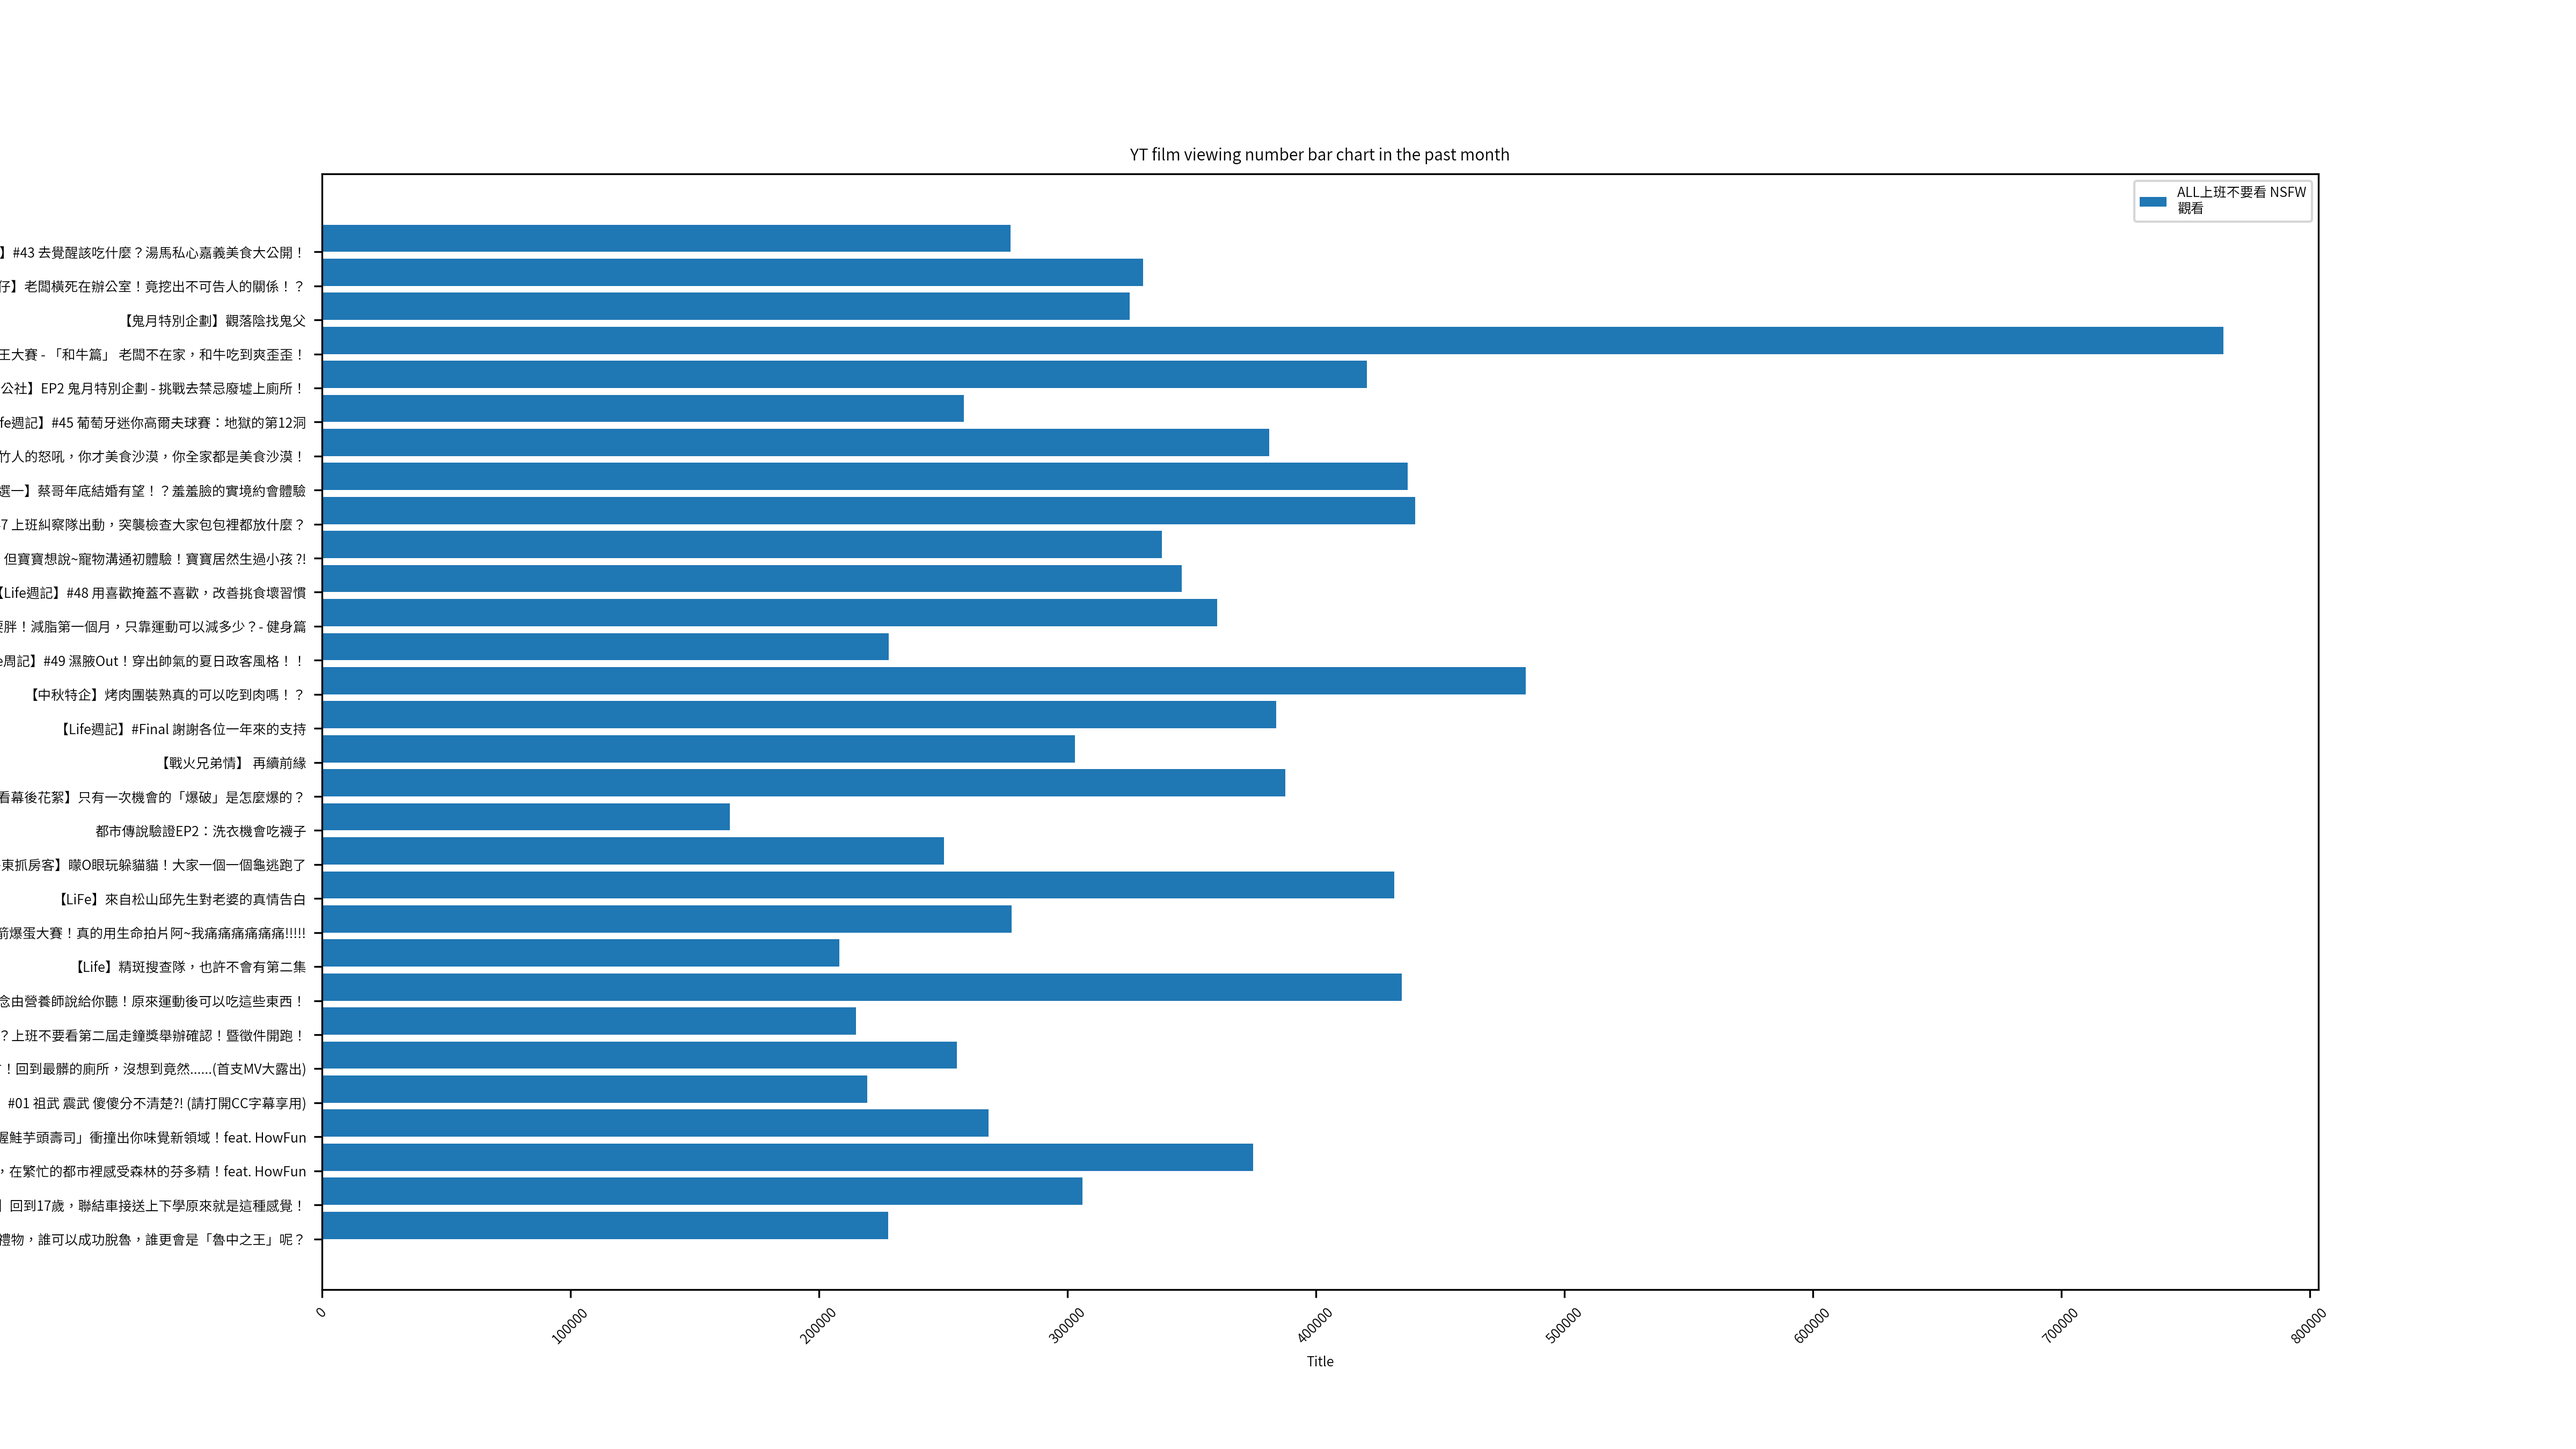
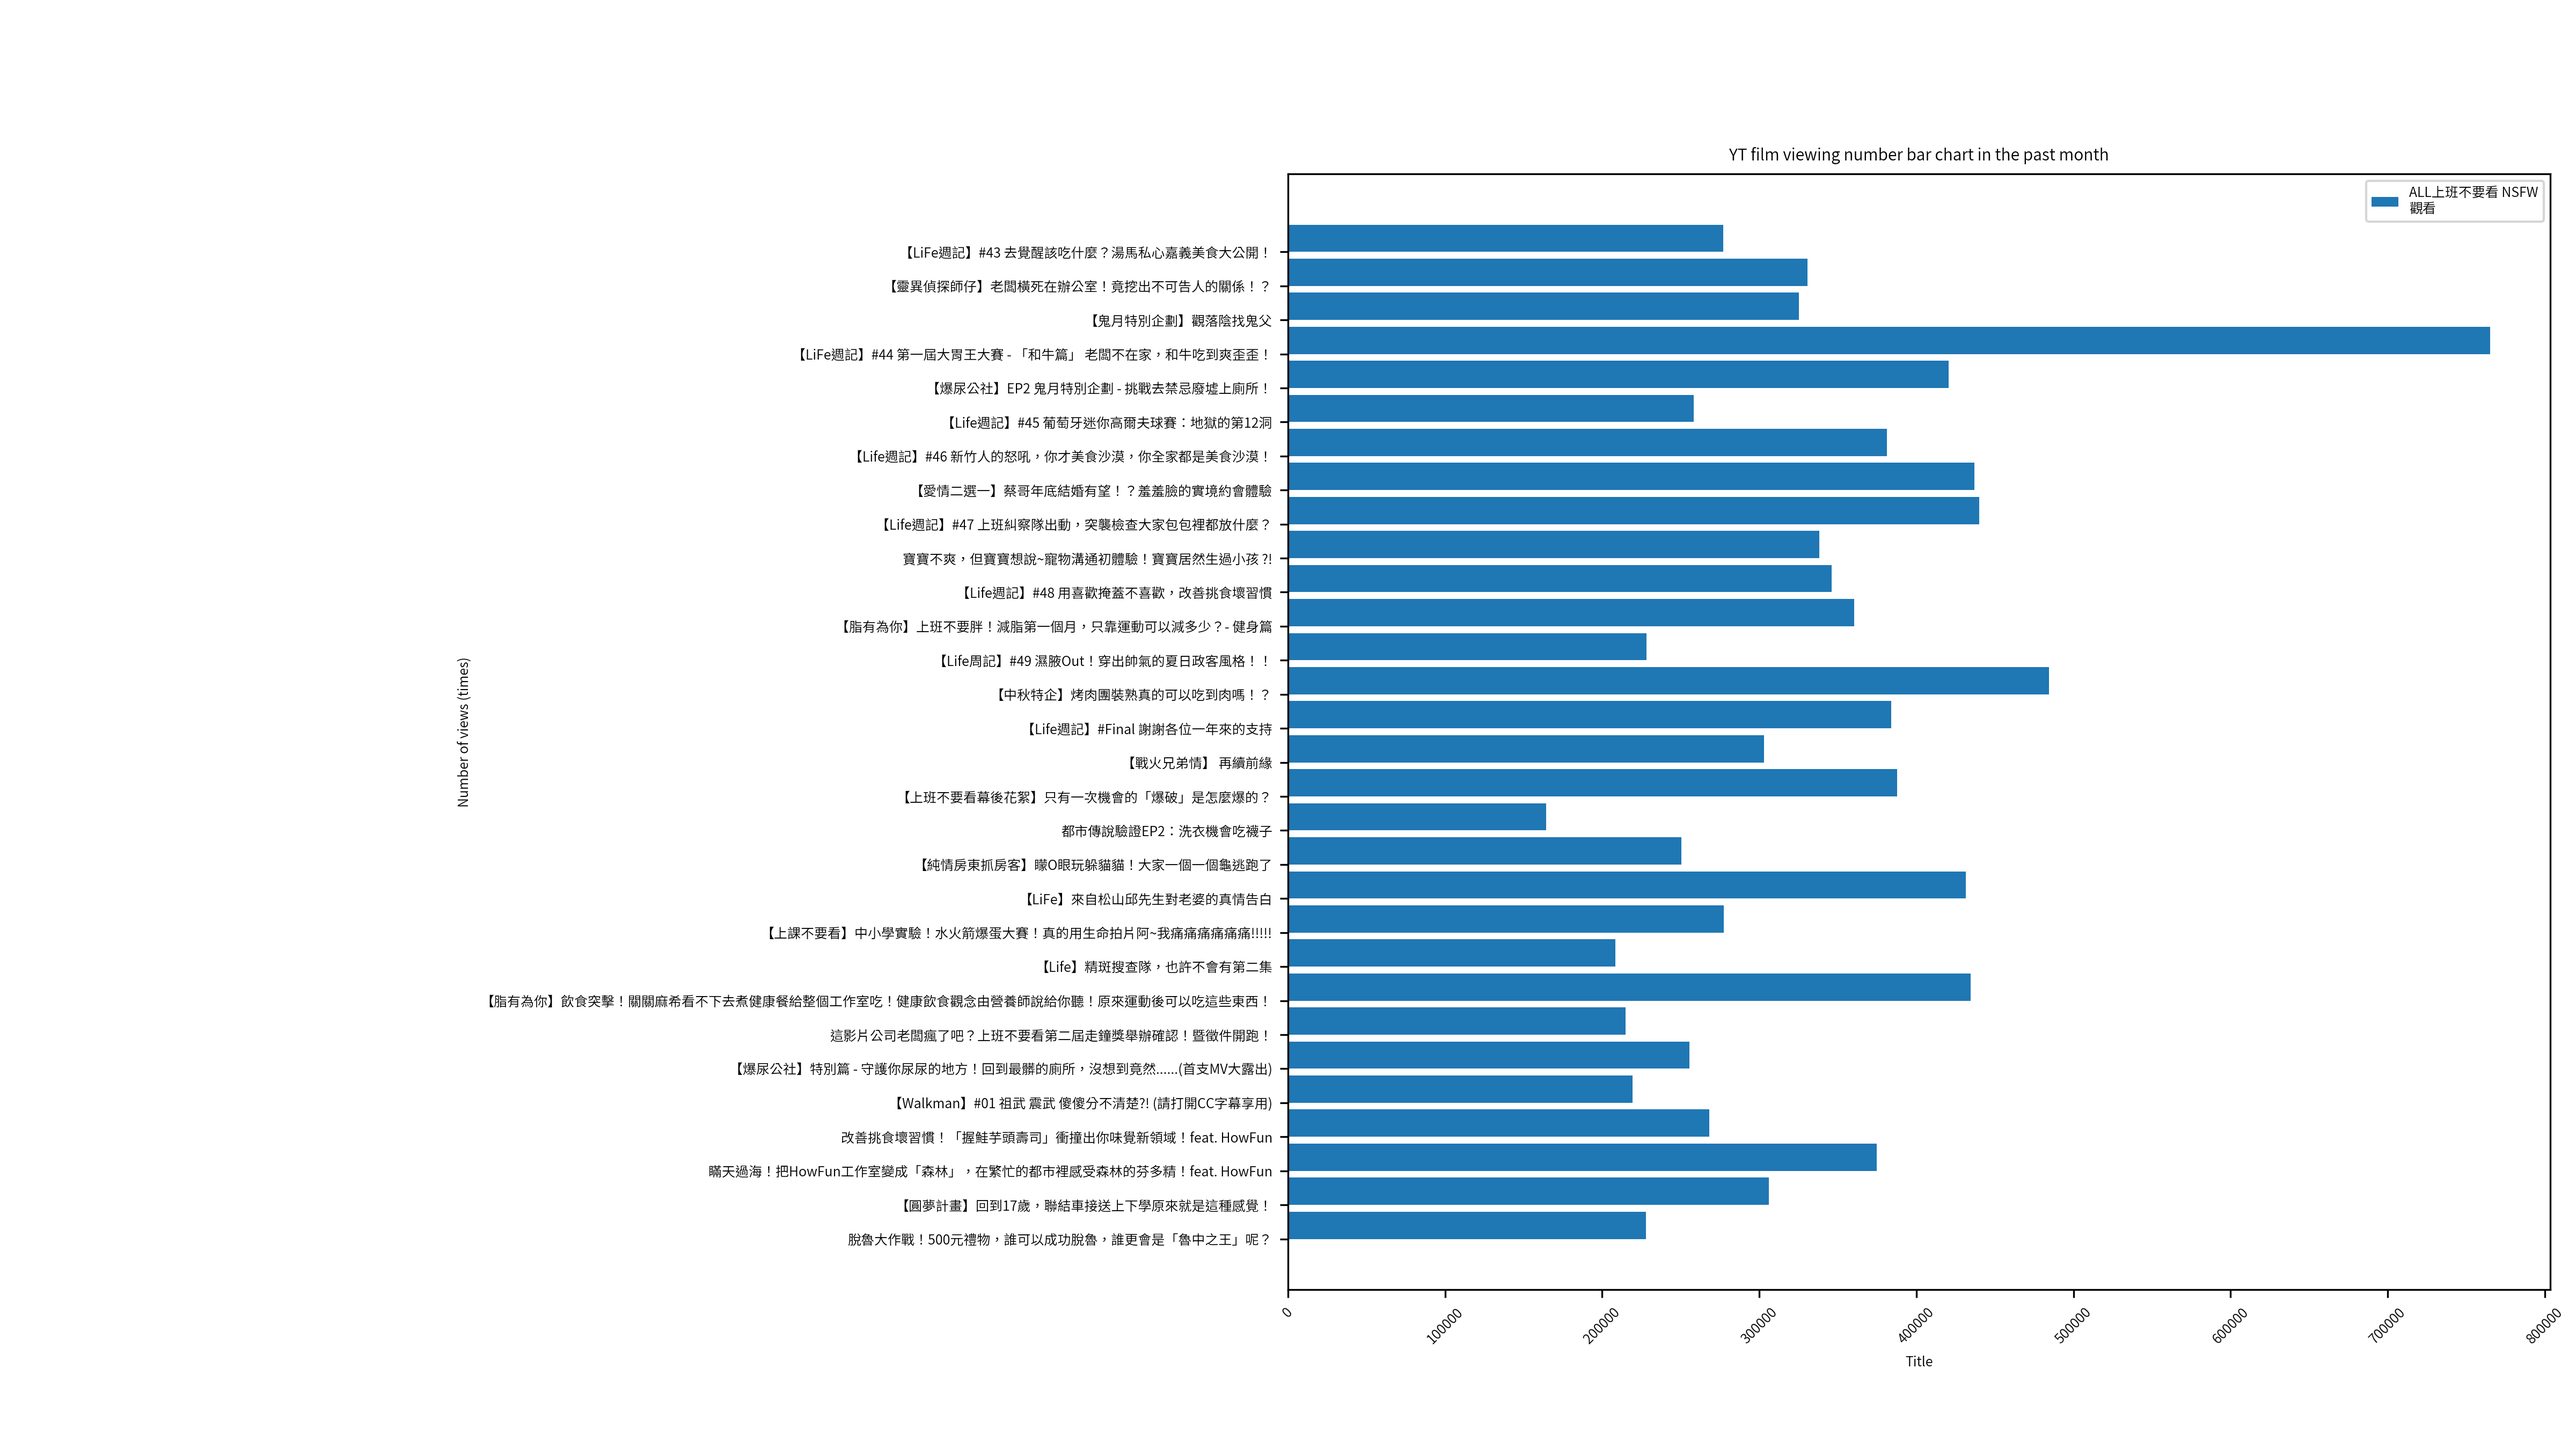
SHup20191111 Version = 19no msg!

diff --git a/yt.py b/yt.py
@@ -115,7 +115,7 @@ plt.legend() #要使用label要加這行
 plt.title("YT film viewing number bar chart in the past month")
 plt.xlabel("Title")
 plt.ylabel("Number of views (times)")
-plt.subplots_adjust(left=None, bottom=None, right=None, top=None, wspace=None, hspace=None)
+plt.subplots_adjust(left=0.5, bottom=None, right=0.99, top=None, wspace=None, hspace=None)
 
 #plt.rcParams['savefig.dpi'] = 300 #圖片像素
 #plt.rcParams['figure.dpi'] = 300 #解析度
